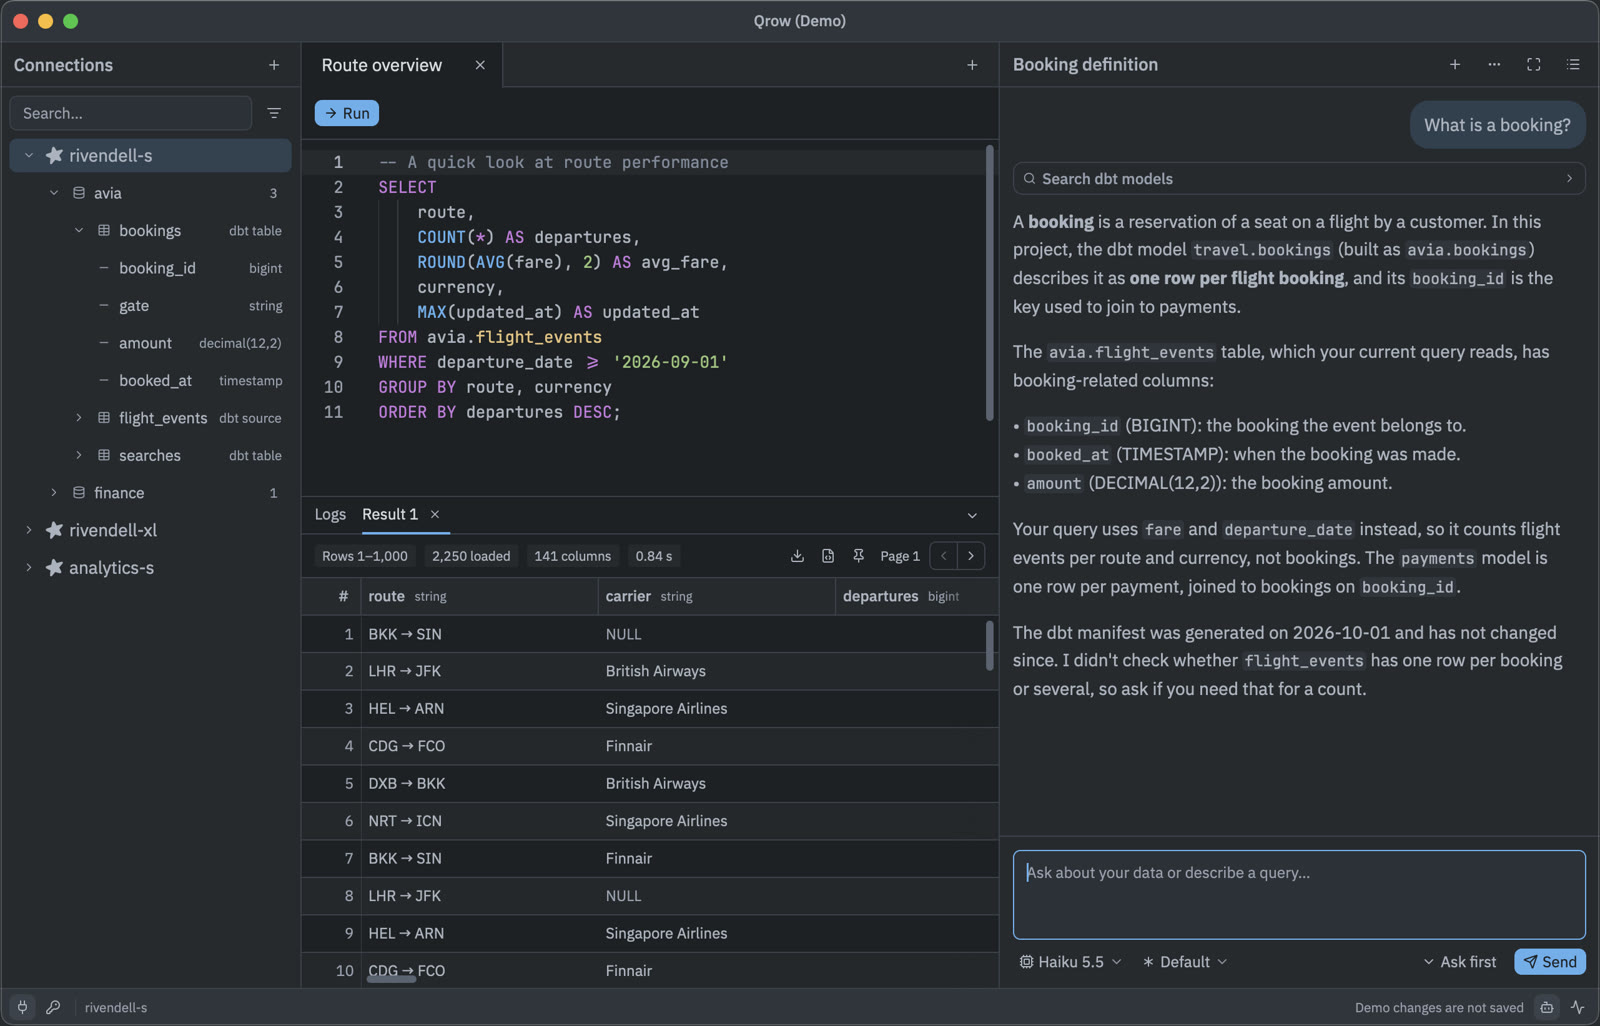
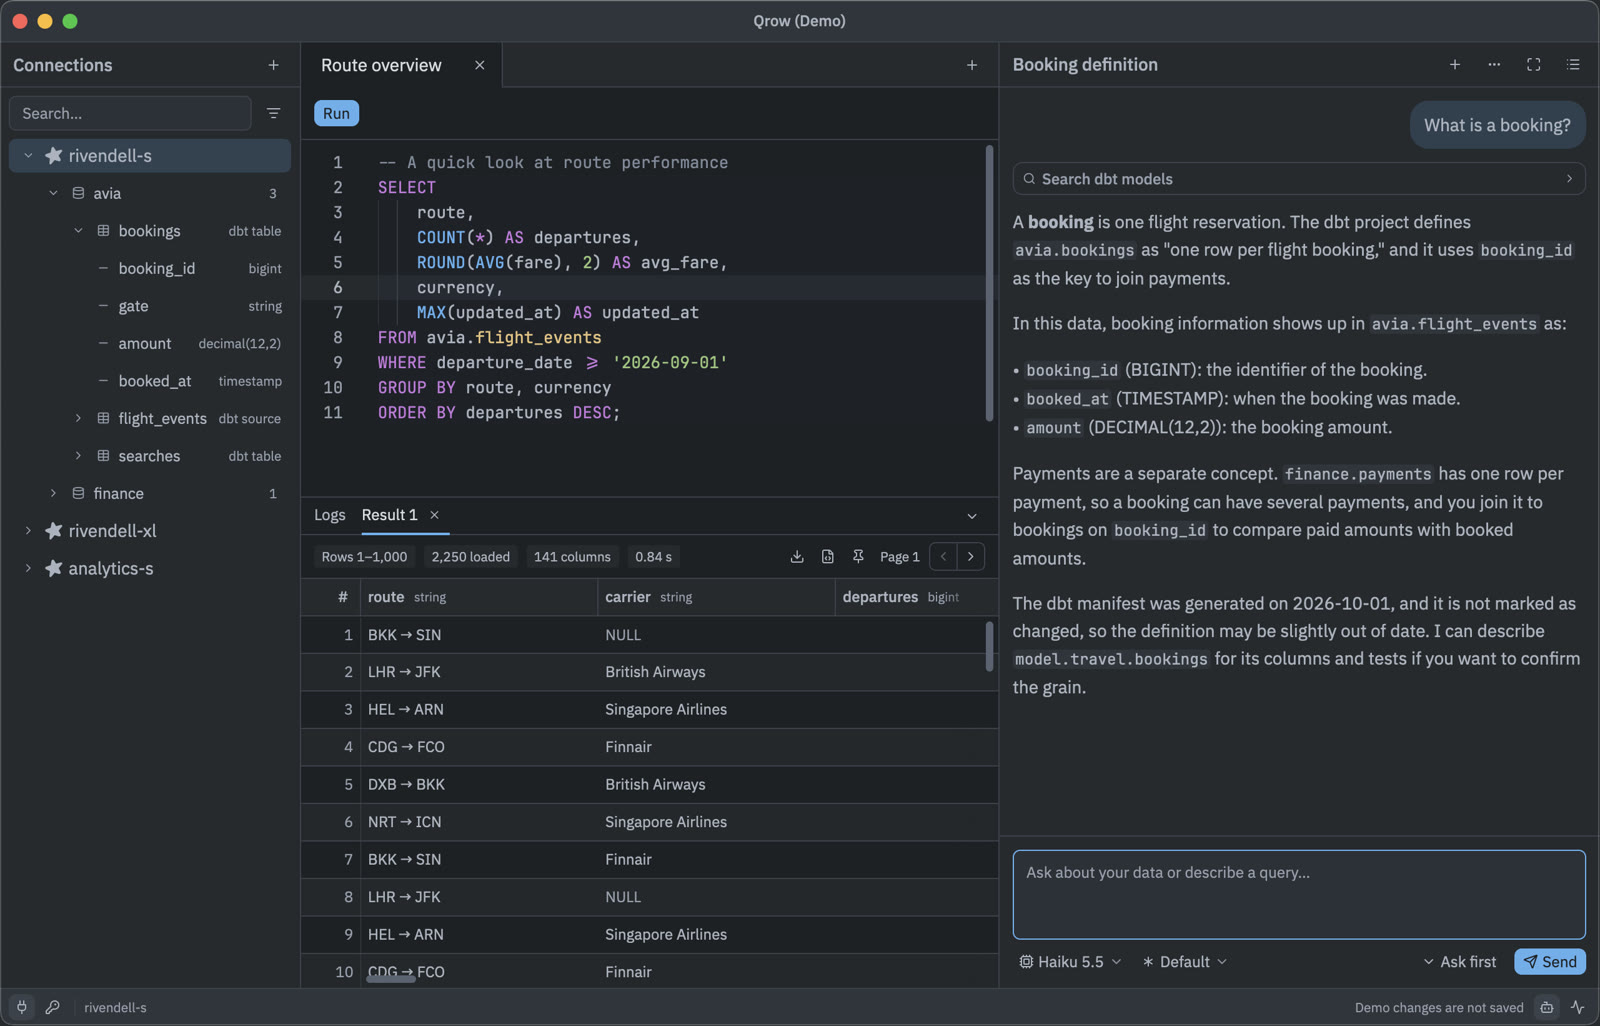
feat(website): update the screenshot from the new README demo

diff --git a/website/index.html b/website/index.html
@@ -46,7 +46,7 @@
 
     <div class="stage">
       <figure class="shot">
-        <img src="media/hero.webp" width="2562" height="1643"
+        <img src="media/hero.webp" width="2561" height="1641"
              alt="Qrow with the schema catalog, a SQL query, its results, and the assistant panel">
       </figure>
     </div>
